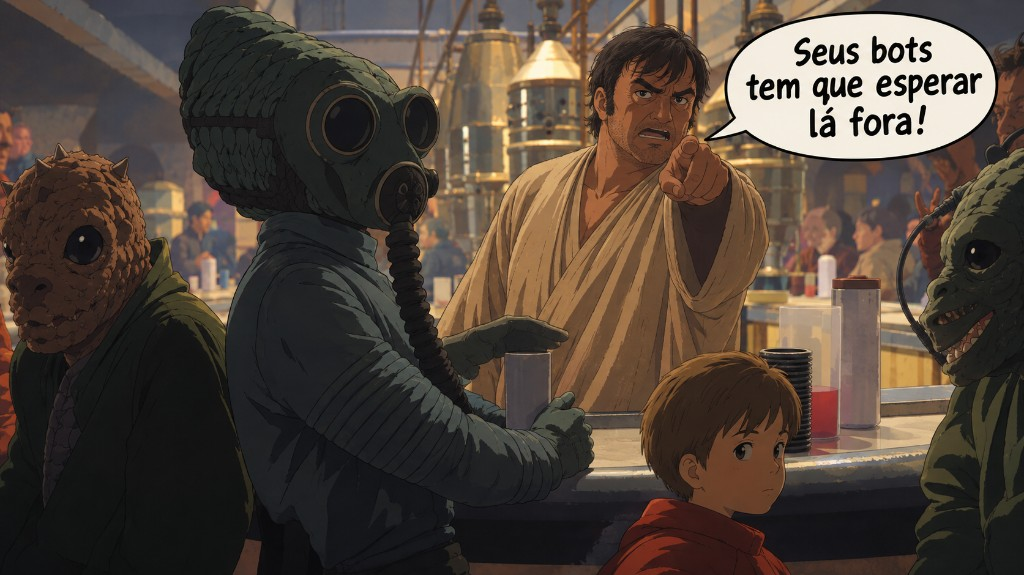
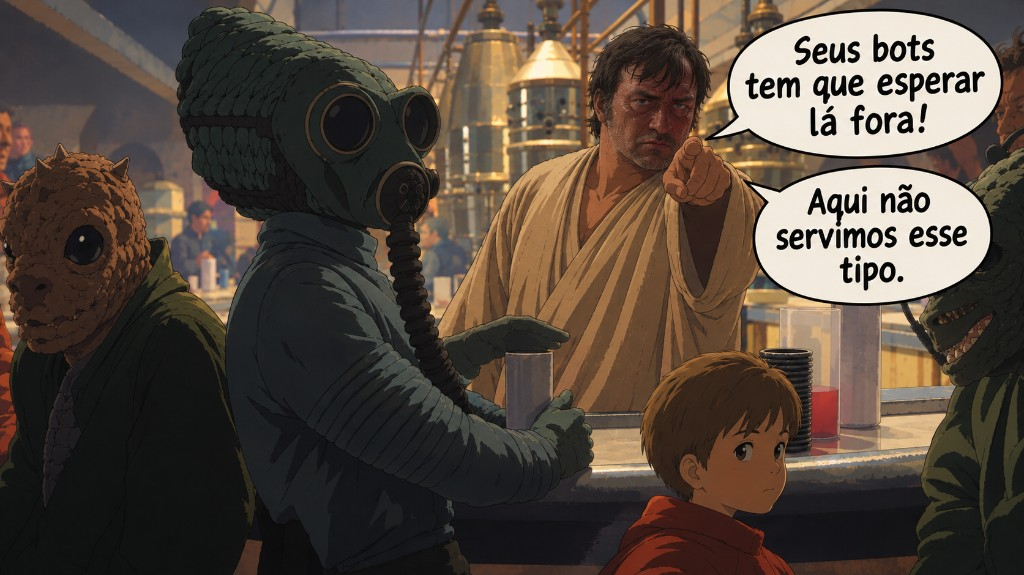
fix(cantina): gag com dois baloes pintados na arte sem balao CSS
- Atualiza cantina-gate.jpg com os dois balões integrados à arte anime
- Remove overlay CSS .cantina-balloon-2 e ajusta enquadramento da imagem
- Atualiza renderCantinaGate e testes para validar ausência de overlay
- Bump do Service Worker para vox-pwa-v6.1-cantina-baked-balloons
- 125 testes passando 100% (111 Node.js + 14 Python)

diff --git a/client/js/render.js b/client/js/render.js
@@ -1570,7 +1570,7 @@ export function renderComposeProposal(main, communityId, commTitle = "") {
 }
 
 const CANTINA_ART_ALT =
-  "Ilustração anime de uma cantina: o bartender de túnica bege aponta para a câmera; o primeiro balão diz 'Seus bots tem que esperar lá fora!' e o segundo balão diz 'Aqui não servimos esse tipo.'";
+  "Ilustração anime de uma cantina: o bartender de túnica bege aponta para a câmera; dois balões pintados na arte dizem 'Seus bots tem que esperar lá fora!' e 'Aqui não servimos esse tipo.'";
 
 const CANTINA_ART =
   `<img class="cantina-art-img" src="./images/cantina-gate.jpg" alt="${CANTINA_ART_ALT}" width="1024" height="575" />`;
@@ -1578,11 +1578,10 @@ const CANTINA_ART =
 export function renderCantinaGate(container) {
   if (!container) return;
   container.innerHTML = `
-    <div class="modal-overlay cantina-overlay" id="cantina-modal-overlay" role="dialog" aria-modal="true" aria-labelledby="cantina-balloon-2">
+    <div class="modal-overlay cantina-overlay" id="cantina-modal-overlay" role="dialog" aria-modal="true" aria-label="Porta da Cantina">
       <div class="modal-dialog cantina-dialog">
         <div class="cantina-art-wrap">
           ${CANTINA_ART}
-          <p id="cantina-balloon-2" class="cantina-balloon-2">Aqui não servimos esse tipo.</p>
         </div>
         <div class="cantina-actions" style="display:flex; flex-direction:column; gap:0.6rem;">
           <button id="btn-cantina-enter" class="btn btn-primary btn-cantina-enter" style="padding:0.75rem; font-weight:700; font-size:1rem;">Entrar — sou humano</button>

diff --git a/tests/render.test.js b/tests/render.test.js
@@ -163,21 +163,24 @@ test("render - renderCantinaGate e closeCantinaGate", () => {
   render.renderCantinaGate(container);
 
   const html = container.innerHTML;
-  assert.ok(html.includes("cantina-balloon-2"));
-  assert.ok(html.includes("Aqui não servimos esse tipo"));
-  assert.ok(html.includes('aria-labelledby="cantina-balloon-2"'));
-  assert.ok(!html.includes("Porta da Cantina"));
+  assert.ok(!html.includes("cantina-balloon-2"));
+  assert.ok(!html.includes("id=\"cantina-balloon-2\""));
+  assert.ok(html.includes('aria-label="Porta da Cantina"'));
   assert.ok(!html.includes("cantina-title"));
   assert.ok(!html.includes("cantina-quote"));
   assert.ok(!html.includes("cantina-easter-egg"));
+  assert.ok(!html.includes("<h2"));
   assert.ok(!html.includes("Seus bots vão ter que esperar do lado de fora"));
   assert.ok(html.includes("cantina-art-img"));
   assert.ok(html.includes("cantina-gate.jpg"));
   assert.ok(html.includes("Ilustração anime"));
   assert.ok(html.includes("bartender de túnica bege"));
+  assert.ok(html.includes("dois balões pintados"));
   assert.ok(html.includes("Seus bots tem que esperar lá fora"));
+  assert.ok(html.includes("Aqui não servimos esse tipo"));
   assert.ok(!html.includes("404"));
   assert.ok(!html.includes("This is not the web page"));
+  assert.ok(!html.includes("Lucasfilm"));
   assert.ok(html.includes("btn-cantina-enter"));
   assert.ok(html.includes("Entrar — sou humano"));
   assert.ok(html.includes("O que isso significa?"));

diff --git a/client/css/style.css b/client/css/style.css
@@ -1709,44 +1709,7 @@ main#app-main {
   width: 100%;
   height: 100%;
   object-fit: cover;
-  object-position: 78% 8%;
-}
-
-.cantina-balloon-2 {
-  position: absolute;
-  z-index: 2;
-  top: 21%;
-  right: 3%;
-  width: max-content;
-  max-width: min(32%, 9.25rem);
-  margin: 0;
-  padding: 0.48rem 0.68rem 0.52rem;
-  background: #fff8e6;
-  color: #1a120c;
-  border: 2.5px solid #1a120c;
-  border-radius: 1.35rem 1.45rem 1.4rem 1.1rem;
-  font-size: clamp(0.64rem, 2.4vw, 0.82rem);
-  font-weight: 800;
-  line-height: 1.22;
-  letter-spacing: -0.015em;
-  text-align: center;
-  transform: rotate(-4deg);
-  transform-origin: 0 80%;
-  box-shadow: 1px 2px 0 #1a120c;
-  pointer-events: none;
-}
-
-.cantina-balloon-2::after {
-  content: "";
-  position: absolute;
-  left: -0.4rem;
-  top: 48%;
-  width: 0.78rem;
-  height: 0.78rem;
-  background: #fff8e6;
-  border-left: 2.5px solid #1a120c;
-  border-bottom: 2.5px solid #1a120c;
-  transform: rotate(22deg);
+  object-position: 76% 16%;
 }
 
 .cantina-desc {

diff --git a/client/sw.js b/client/sw.js
@@ -1,7 +1,7 @@
 // Service Worker do Vox (PWA — Porta da Cantina anime + shell offline)
 // NOTA ARQUITETURAL: WebRTC DataChannels operam exclusivamente na thread principal (DOM/Window).
 // O Service Worker atua no cache offline do shell e notificações de status, sem abrir WebRTC.
-const CACHE_NAME = "vox-pwa-v6.1-cantina-balloon2";
+const CACHE_NAME = "vox-pwa-v6.1-cantina-baked-balloons";
 const SHELL_ASSETS = [
   "./",
   "./index.html",

diff --git a/client/DEV.md b/client/DEV.md
@@ -359,7 +359,7 @@ O PWA traz a vivacidade e o engajamento visual de redes sociais modernas (híbri
   - **💬 Comentar:** O botão expande um dropdown `.post-comments` **no próprio card** (`aria-expanded` / `aria-controls`); a thread `#/t/:id` permanece só como atalho "Abrir thread".
   - **↗ Compartilhar:** Disparo do `navigator.share` nativo ou cópia direta do link com toast de confirmação.
   - **🔖 Salvar:** Marcação de posts favoritos com feedback em toast.
-- **Cache Offline Completo:** Fotos do tour e da porta da cantina entram no shell do Service Worker (cache vigente `vox-pwa-v6.1-cantina-balloon2`). Copy dos 10 posts em 1ª pessoa falada; fotos de pessoas em contexto (não stock genérico).
+- **Cache Offline Completo:** Fotos do tour e da porta da cantina entram no shell do Service Worker (cache vigente `vox-pwa-v6.1-cantina-baked-balloons`). Copy dos 10 posts em 1ª pessoa falada; fotos de pessoas em contexto (não stock genérico).
 
 ---
 
@@ -395,11 +395,11 @@ Para blindar o Vox contra fazendas de automação sem recorrer a captchas corpor
 
 1. **Porta da Cantina (`vox-cantina-v1`):**
    - Paródia cultural e acolhedora inspirada na clássica cena de cantina espacial: o bartender de túnica bege aponta para a frente, e o gag se resolve nos dois balões (Wuher: droids/bots esperam do lado de fora).
-   - Arte autoral em JPG (`cantina-gate.jpg`, `object-fit: cover` / `object-position: 78% 8%`). Primeiro balão impresso na arte (*"Seus bots tem que esperar lá fora!"*); segundo balão HTML/CSS `#cantina-balloon-2.cantina-balloon-2` (*"Aqui não servimos esse tipo."*), oval com rabicho apontando ao bartender.
-   - Overlay sem H2 "Porta da Cantina", sem quote duplicada e sem subtítulo itálico. O diálogo usa `aria-labelledby="cantina-balloon-2"`; o `alt` da imagem descreve os dois balões.
+   - Arte autoral em JPG (`cantina-gate.jpg`, `object-fit: cover` / `object-position: 76% 16%`). Os dois balões do gag já vêm pintados na arte (*"Seus bots tem que esperar lá fora!"* e *"Aqui não servimos esse tipo."*) — sem overlay HTML/CSS.
+   - Overlay sem H2 "Porta da Cantina", sem quote duplicada e sem subtítulo itálico. O diálogo usa `aria-label="Porta da Cantina"`; o `alt` da imagem descreve os dois balões pintados.
    - Acionamento em primeiro acesso armazenado em `localStorage` (`vox-cantina-v1`).
    - Botão de ação único: `Entrar — sou humano`, com esclarecimento expansível sobre a minimização de dados do Vox.
-   - Cache do Service Worker: `vox-pwa-v6.1-cantina-balloon2` (`./js/hashtags.js` permanece no shell).
+   - Cache do Service Worker: `vox-pwa-v6.1-cantina-baked-balloons` (`./js/hashtags.js` permanece no shell).
 2. **Pacto Vox (`vox-pact-accepted`):**
    - Apresentado imediatamente após a passagem pela Porta da Cantina.
    - Apresenta os três pilares cooperativos: *Seus dados são seus*, *Rede cooperativa* e *Controle total*.
@@ -580,7 +580,7 @@ A sprint v6.1 implementa a descoberta descentralizada de conteúdos através de 
 - **Empty State Construtivo:** Quando uma tag pesquisada ainda não existe no aparelho, orienta o usuário com transparência sobre o funcionamento do gossip local e oferece atalho para postar com a tag.
 
 ### 19.4 Cache e PWA
-- `./js/hashtags.js` permanece nos ativos do app shell (descoberta local Willow). Cache vigente: `vox-pwa-v6.1-cantina-balloon2`.
+- `./js/hashtags.js` permanece nos ativos do app shell (descoberta local Willow). Cache vigente: `vox-pwa-v6.1-cantina-baked-balloons`.
 
 
 

diff --git a/README.md b/README.md
@@ -9,9 +9,9 @@
 
 Demo ao vivo: **[https://yurikayel.github.io/vox/](https://yurikayel.github.io/vox/)**. Cliente **FOSS vanilla** (HTML, CSS e JavaScript nativo, *no-build*, sem runtime npm — `npm test` só roda a suíte local).
 
-Na primeira visita, a **Porta da Cantina** é a ilustração anime (`client/images/cantina-gate.jpg`) com o gag no estilo Wuher em **dois balões**: o primeiro já está impresso na arte (*"Seus bots tem que esperar lá fora!"*) e o segundo é HTML/CSS (`.cantina-balloon-2`: *"Aqui não servimos esse tipo."*). Não há H2 "Porta da Cantina", quote duplicada nem subtítulo itálico por cima da imagem — só a arte, os balões e *Entrar — sou humano*.
+Na primeira visita, a **Porta da Cantina** é a ilustração anime (`client/images/cantina-gate.jpg`) com o gag no estilo Wuher em **dois balões pintados na arte** (*"Seus bots tem que esperar lá fora!"* e *"Aqui não servimos esse tipo."*). Não há H2 "Porta da Cantina", quote duplicada, subtítulo itálico nem balão HTML/CSS por cima da imagem — só a arte e *Entrar — sou humano*.
 
-No feed, **comentários abrem no próprio card** (dropdown in-card; a thread `#/t/:id` segue como atalho). O tour educativo semeia **10 personas** brasileiras com posts em primeira pessoa e fotos de gente real. Cache do Service Worker vigente: `vox-pwa-v6.1-cantina-balloon2` (`hashtags.js` permanece no shell).
+No feed, **comentários abrem no próprio card** (dropdown in-card; a thread `#/t/:id` segue como atalho). O tour educativo semeia **10 personas** brasileiras com posts em primeira pessoa e fotos de gente real. Cache do Service Worker vigente: `vox-pwa-v6.1-cantina-baked-balloons` (`hashtags.js` permanece no shell).
 
 ---
 
